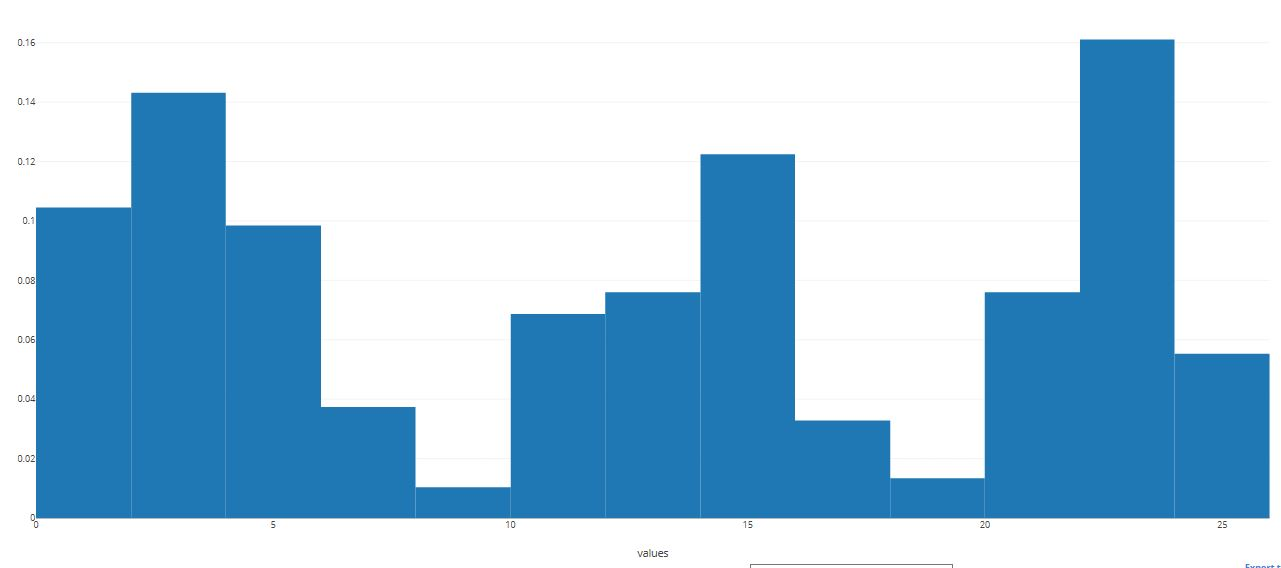
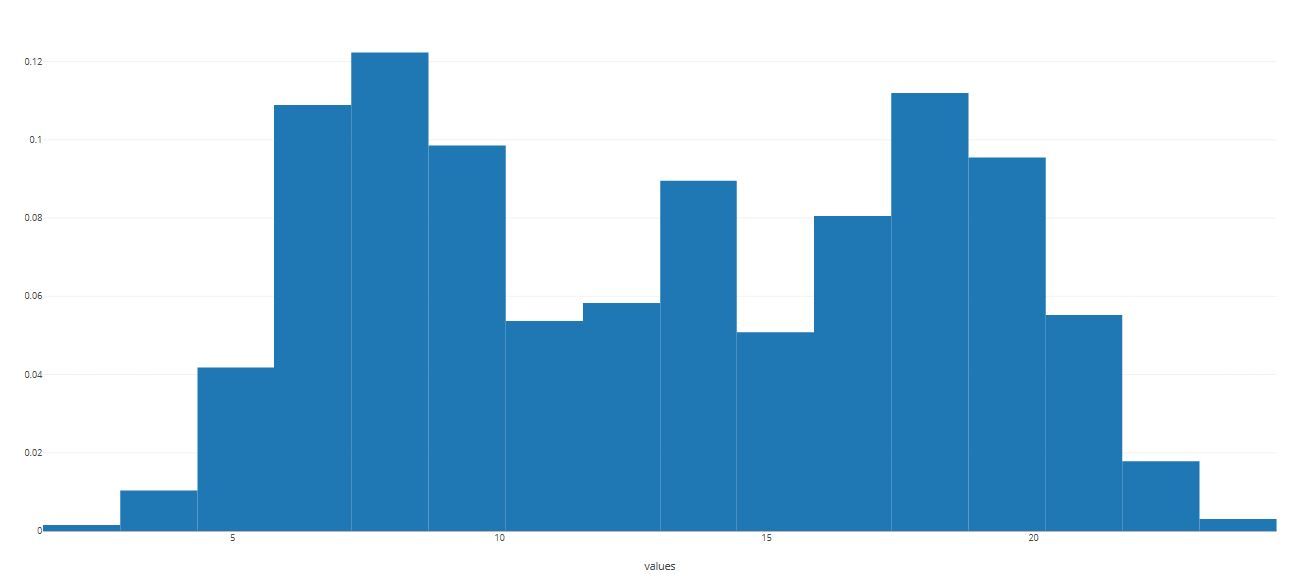
Lab 1 finished

diff --git a/Lab1/Tools/simulation.py b/Lab1/Tools/simulation.py
@@ -19,8 +19,8 @@ class Simulator:
         array_of_vals = []
         for i in range(len(self.samples)):
             num = 0
-            tmp_min = min(i)
-            tmp_max = max(i)
+            tmp_min = min(self.samples[i])
+            tmp_max = max(self.samples[i])
             while (num < len(self.samples[i])):
                 u = np.random.uniform(0, 1, 2)
                 x = math.cos(2 * np.pi * u[0]) * math.sqrt(-2 * math.log(u[1]))
@@ -53,8 +53,8 @@ class Simulator:
             max_prob = normal_distrib(self.means[i], self.stds[i], self.means[i])
             while (num < len(self.samples[i])):
                 x = np.random.uniform(low=tmp_min, high=tmp_max+1, size=1)[0]
-                y = np.random.uniform(low=min_prob, high=max_prob-0.006, size=1)[0]
-                if normal_distrib(self.means[i], self.stds[i], x) <= y:
+                y = np.random.uniform(low=min_prob, high=max_prob, size=1)[0]
+                if y <= normal_distrib(self.means[i], self.stds[i], x):
                     array_of_vals += [x]
                     num += 1
         plot_histogram(array_of_vals, 'geometrical_estimation' + str(iter) + '.png')

diff --git a/Lab1/Tools/params_estimation.py b/Lab1/Tools/params_estimation.py
@@ -75,7 +75,8 @@ class Estimator:
             s = Simulator(res_list_of_samples, mean, sd)
             for i in range(10):
                 # s.method_of_inverse_function(i)
-                s.geometrical_method(i)
+                # s.geometrical_method(i)
+                s.sample_boxmiller(i)
 
     def method_of_estimation(self, list_of_samples, method='moments', type='normal'):
         """
@@ -136,6 +137,3 @@ class Estimator:
         for i in range(len(mean)):
             print("Sample", i, "mean:", mean[i], "sd:", standard_dev[i])
         return list_of_samples, mean, standard_dev
-
-    def params_validation(self):
-        return True

diff --git a/Lab1/Tools/vis.py b/Lab1/Tools/vis.py
@@ -14,8 +14,7 @@ path_to_figure = 'Figures\\'
 
 def plot_histogram(sample, name):
     x = np.array(sample)
-    data = [go.Histogram(x=x, histnorm='probability',autobinx=False,
-                         xbins=dict(start=0, end=26, size=26 / 18))]
+    data = [go.Histogram(x=x, histnorm='probability', autobinx=False)]
     layout = dict(
         xaxis=dict(title="values")
     )

diff --git a/Lab1/Tools/stats.py b/Lab1/Tools/stats.py
@@ -38,7 +38,7 @@ class Distribution:
         self.biased_variance = None
         self.min = min(self.values)
         self.max = max(self.values)
-        #self.quartiles = []
+        # self.quartiles = []
         self.iqr = None
         self.count_stats()
 

diff --git a/Lab1/main.py b/Lab1/main.py
@@ -22,5 +22,3 @@ def main():
 
 if __name__ == '__main__':
     main()
-
-
